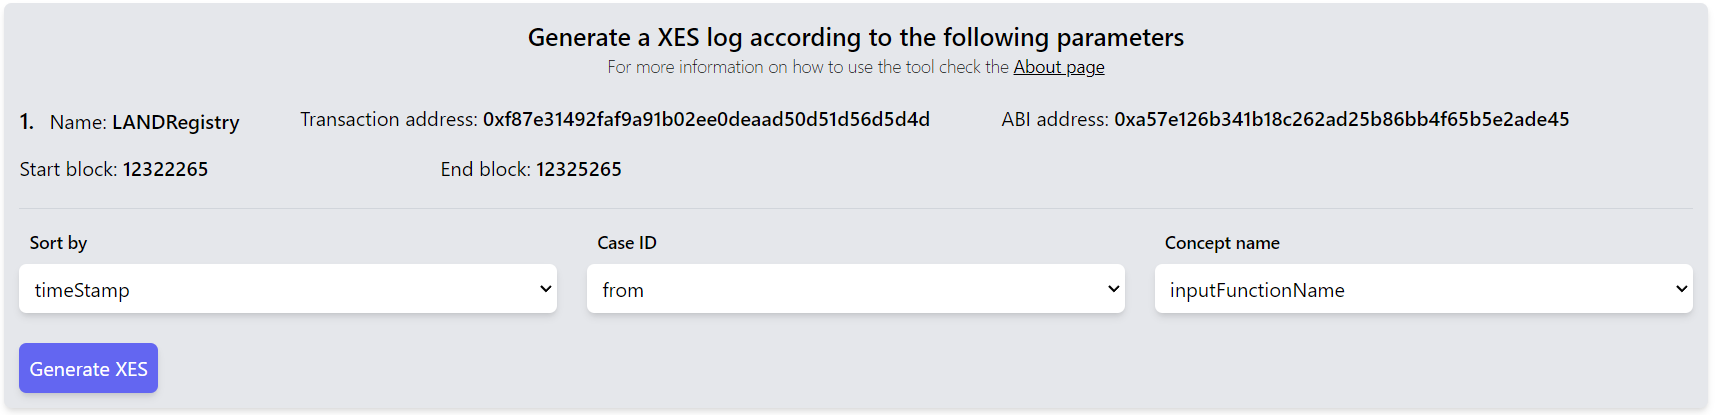
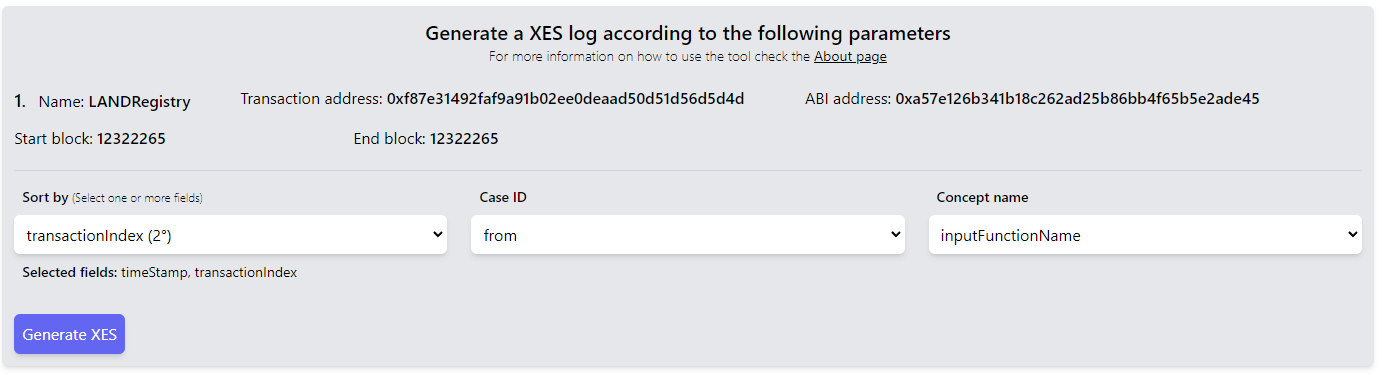
feat: multi-field sorting

diff --git a/client/pages/about.tsx b/client/pages/about.tsx
@@ -27,20 +27,20 @@ const About: NextPage = () => {
           techniques created so far by researchers to address the challenge have limitations when applied to data
           produced by smart contracts. Some are tailored to specific use cases like blockchain-based Business Process
           Management Systems. Others focus on blockchain events, which lack a standard format and are difficult to use
-          without additional processing steps. To solve this challenge, we propose an application-agnostic extraction
-          methodology to collect data from every EVM-compatible smart contract and enable the application of process
+          without additional processing steps. To solve this challenge, an application-agnostic extraction methodology
+          is proposed to collect data from every EVM-compatible smart contract and enable the application of process
           mining techniques. The proposed methodology aims to extract XES logs from blockchain transactions and their
           internal execution. The former, unlike events, have standard parameters that ensure a common ground of
           operations. The latter represents the execution flow of transactions, which is the invocations of the
-          functions of smart contracts involved in the process. The methodology comprises five steps: (i) extraction of
-          data from smart contracts, (ii) cleaning of raw data, (iii) selecting sorting criteria, (iv) trace
-          construction, and, finally, (v) XES log generation. An in-depth case study of Decentraland, a metaverse and
-          digital assets marketplace developed on the Ethereum blockchain, has been carried out to demonstrate the
+          functions of smart contracts involved in the process. The methodology includes five steps: (i) extraction of
+          data from smart contracts, (ii) cleaning of raw data, (iii) selection of sorting criteria, (iv) construction
+          of traces, and, finally, (v) generation of the XES log. An in-depth case study of Decentraland, a metaverse
+          and digital assets marketplace developed on the Ethereum blockchain, has been carried out to demonstrate the
           validity of the proposed methodology. We were able to generate XES logs considering one or more Decentraland
           smart contracts combined, e.g., LANDRegistry, ESTATERegisty, and Marketplace. Unlike event data collection,
-          extracting logs from transactions does not require prior knowledge of smart contract code. On the generated
-          XES logs, we successfully applied several process mining techniques like Process discovery and Conformance
-          Checking demonstrating the validity of the methodology.
+          extracting logs from transactions does not require prior knowledge of smart contract code. Several process
+          mining techniques, such as process discovery and conformance checking, were applied to the generated XES logs
+          to demonstrate the validity of the methodology.
         </p>
         <h4 id="usage" className="text-2xl font-semibold mt-5 mb-3 pt-5 border-t border-gray-300">
           How to use
@@ -54,7 +54,7 @@ const About: NextPage = () => {
           <ul className="list-disc ml-10 my-3 space-y-2">
             <li>
               <span className="font-semibold">Name: </span> the name of the smart contract. It is not mandatory to use
-              the actual smart contract name (e.g., UniswapV2Factory). Use a name that can help you identify it.
+              the actual smart contract name (e.g., LANDRegistry). Use a name that can help you identify it.
             </li>
             <li>
               <span className="font-semibold">Transaction address: </span> this is the address from which transactions
@@ -104,6 +104,7 @@ const About: NextPage = () => {
               layout="responsive"
               width={1715}
               height={436}
+              priority
             />
           </div>
           At this point, you can search for transactions based on the selected parameters by clicking the SEARCH button.
@@ -116,13 +117,15 @@ const About: NextPage = () => {
               layout="responsive"
               width={1710}
               height={812}
+              priority
             />
           </div>
           The next step is the generation of the XES log. This second step starts from the transactions fetched earlier.
           The parameters you need to specify here are:
           <ul className="list-disc ml-10 my-3 space-y-2">
             <li>
-              <span className="font-semibold">Sort by:</span> the parameter by which the sorting is done.
+              <span className="font-semibold">Sort by:</span> the fields by which the sorting is done. More than one
+              fields can be selected. The order of selection is also the order of the sorting.
             </li>
             <li>
               <span className="font-semibold">Case ID:</span> the parameter selected to built trace. For instance, if
@@ -140,14 +143,21 @@ const About: NextPage = () => {
           <code>updateLandData(int256 x, int256 y, string data)</code> the framework extracted <code>x</code>,{" "}
           <code>y</code>, and <code>data</code>.
           <div className="my-4">
-            <Image src="/log_form_example.png" alt="log form example" layout="responsive" width={1715} height={415} />
+            <Image
+              src="/log_form_example.png"
+              alt="log form example"
+              layout="responsive"
+              width={1382}
+              height={375}
+              priority
+            />
           </div>
           Clicking on the &#34;Generate XES&#34; button will show a preview of the generated XES log and a button to
           download the full XES log. The generated log can be successfully used as input for every Process Mining
           technique accepting XES logs.
         </p>
         <div className="my-4">
-          <Image src="/log_preview.png" alt="log preview" layout="responsive" width={1710} height={806} />
+          <Image src="/log_preview.png" alt="log preview" layout="responsive" width={1378} height={650} priority />
         </div>
         <h4 className="text-2xl font-semibold mt-5 mb-3 pt-5 border-t border-gray-300">Contact</h4>
         <p className="text-justify text-lg">

diff --git a/client/pages/log.tsx b/client/pages/log.tsx
@@ -16,7 +16,7 @@ const Log: NextPage = () => {
   const [keys, setKeys] = useState([""]);
   const [result, setResult] = useState([]);
 
-  const [sortBy, setSortBy] = useState("");
+  const [sortBy, setSortBy] = useState<string[]>([]);
   const [caseID, setCaseID] = useState("");
   const [conceptName, setConceptName] = useState("");
 
@@ -38,7 +38,6 @@ const Log: NextPage = () => {
       const res = await axios.get(`/keys/${contracts.map((contract) => `${contract.name}_`)}${startBlock}_${endBlock}`);
 
       setKeys(res.data);
-      setSortBy(res.data[0]);
       setCaseID(res.data[0]);
       setConceptName(res.data[0]);
     };
@@ -52,7 +51,7 @@ const Log: NextPage = () => {
       const res = await axios.post(
         `/xes/${contracts.map((contract) => `${contract.name}_`)}${startBlock}_${endBlock}`,
         {
-          columns: [sortBy],
+          columns: sortBy,
           caseID,
           conceptName,
         }
@@ -64,6 +63,13 @@ const Log: NextPage = () => {
     } finally {
       setLoading(false);
     }
+  };
+
+  const handleChangeSortBy = (value: string) => {
+    let updatedSortBy = sortBy.slice();
+    const index = updatedSortBy.indexOf(value);
+    index === -1 ? updatedSortBy.push(value) : updatedSortBy.splice(index, 1);
+    setSortBy(updatedSortBy);
   };
 
   return (
@@ -102,20 +108,35 @@ const Log: NextPage = () => {
           End block: <span className="font-semibold">{endBlock}</span>
         </p>
         <div className="col-span-12 grid grid-cols-12 gap-x-6 gap-y-6 mt-2 pt-2 border-t border-gray-300">
-          <div className="sm:col-span-4 col-span-12">
-            <label className="block text-sm font-medium p-2">Sort by</label>
+          <div className="md:col-span-4 col-span-12">
+            <label className="block text-sm font-medium p-2">
+              Sort by
+              <span className="text-xs font-light"> (Select one or more fields)</span>
+            </label>
             <select
               placeholder="e.g. hash"
               className="scrollbar w-full rounded-md p-2 shadow-md border-transparent"
-              value={sortBy}
-              onChange={(e) => setSortBy(e.target.value)}
+              onChange={(e) => handleChangeSortBy(e.target.value)}
             >
               {keys.map((key, index) => (
-                <option key={index}>{key}</option>
+                <option
+                  value={key}
+                  key={index}
+                  className={sortBy.indexOf(key) !== -1 ? "bg-indigo-700 text-white font-bold" : ""}
+                >
+                  {key}
+                  {"  "}
+                  <span>{sortBy.indexOf(key) !== -1 ? `(${sortBy.indexOf(key) + 1}°) ` : ""}</span>
+                </option>
               ))}
             </select>
+            {sortBy.length > 0 && (
+              <label className="block text-sm font-semibold p-2">
+                Selected fields: <span className="font-normal">{sortBy.join(", ")}</span>
+              </label>
+            )}
           </div>
-          <div className="sm:col-span-4 col-span-12">
+          <div className="md:col-span-4 col-span-12">
             <label className="block text-sm font-medium p-2">Case ID</label>
             <select
               placeholder="e.g. from"
@@ -128,7 +149,7 @@ const Log: NextPage = () => {
               ))}
             </select>
           </div>
-          <div className="sm:col-span-4 col-span-12">
+          <div className="md:col-span-4 col-span-12">
             <label className="block text-sm font-medium p-2">Concept name</label>
             <select
               placeholder="e.g. inputFunctionName"

diff --git a/server/app.py b/server/app.py
@@ -35,6 +35,9 @@ scheduler.add_job(func=delete_txs_xes, trigger="interval",
                   seconds=172800)  # 2 days
 scheduler.start()
 
+columnsToDrop = ["nonce", "value", "isError", "txreceipt_status", "input",
+                 "contractAddress",   "confirmations", "methodId"]
+
 
 # download paper
 @app.route("/download_paper", methods=['GET'])
@@ -178,6 +181,7 @@ def fetch_transactions():
 def get_txs_keys(file_name):
     try:
         df = pd.read_json(f'txs/{file_name}.json')
+        df.drop(columnsToDrop, axis=1, inplace=True)
         return sorted(list(filter(None, df.columns))), 200
 
     except Exception as e:
@@ -194,8 +198,7 @@ def generate_xes(file_name):
         concept_name = data['conceptName']
 
         df = pd.read_json(f'txs/{file_name}.json')
-        df.drop(["blockNumber", "nonce", "blockHash", "value", "gas", "gasPrice", "isError", "txreceipt_status", "input",
-                 "contractAddress", "cumulativeGasUsed", "gasUsed",  "confirmations", "methodId"], axis=1, inplace=True)
+        df.drop(columnsToDrop, axis=1, inplace=True)
         df = dataframe_utils.convert_timestamp_columns_in_df(df)
         df = df.sort_values(by=['timeStamp', 'transactionIndex'])
 
